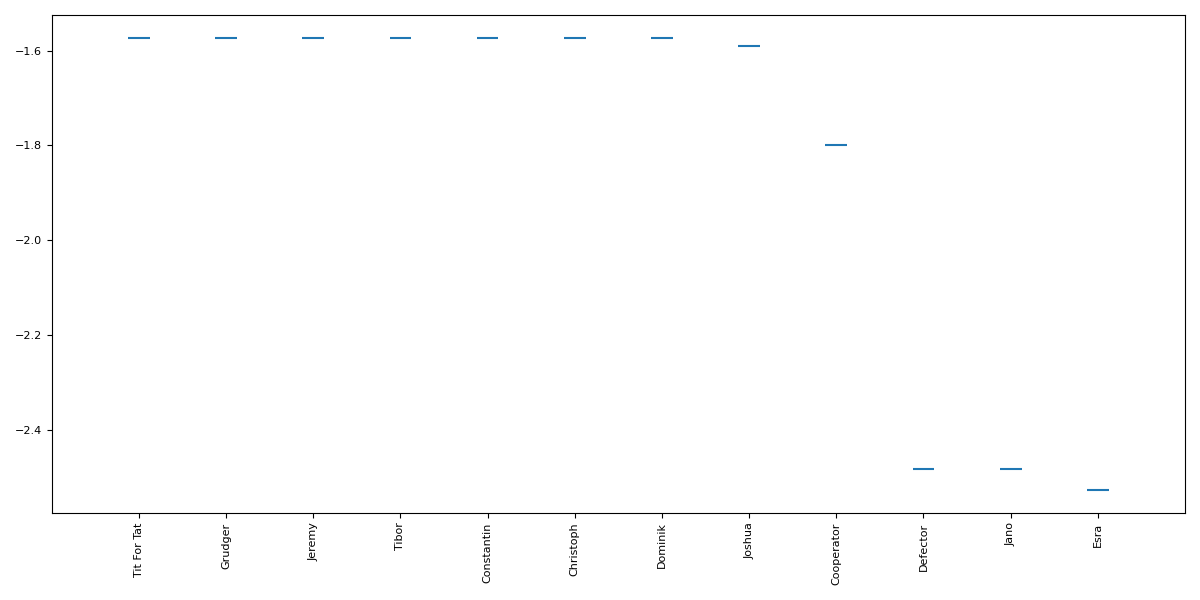
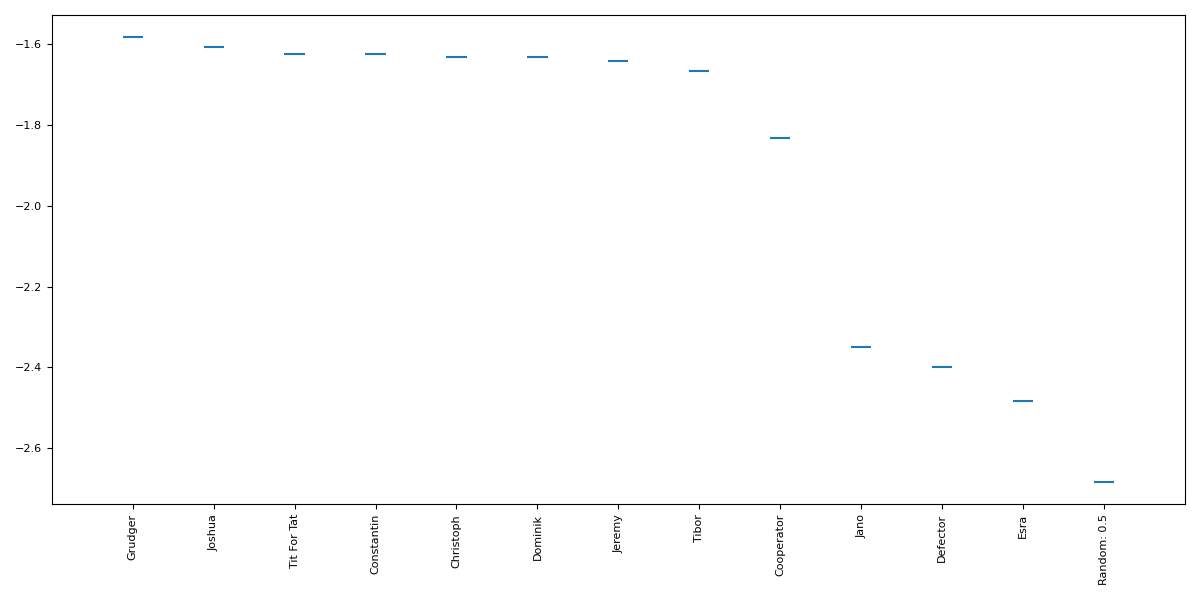
Run tournament with random

diff --git a/was-tournament/was_tournament.py b/was-tournament/was_tournament.py
@@ -17,6 +17,7 @@ strategies = [
     axl.Defector(),
     axl.TitForTat(),
     axl.Grudger(),
+    axl.Random(0.5),
     pl0.Jeremy(),
     pl1.Tibor(),
     pl2.Constantin(),
